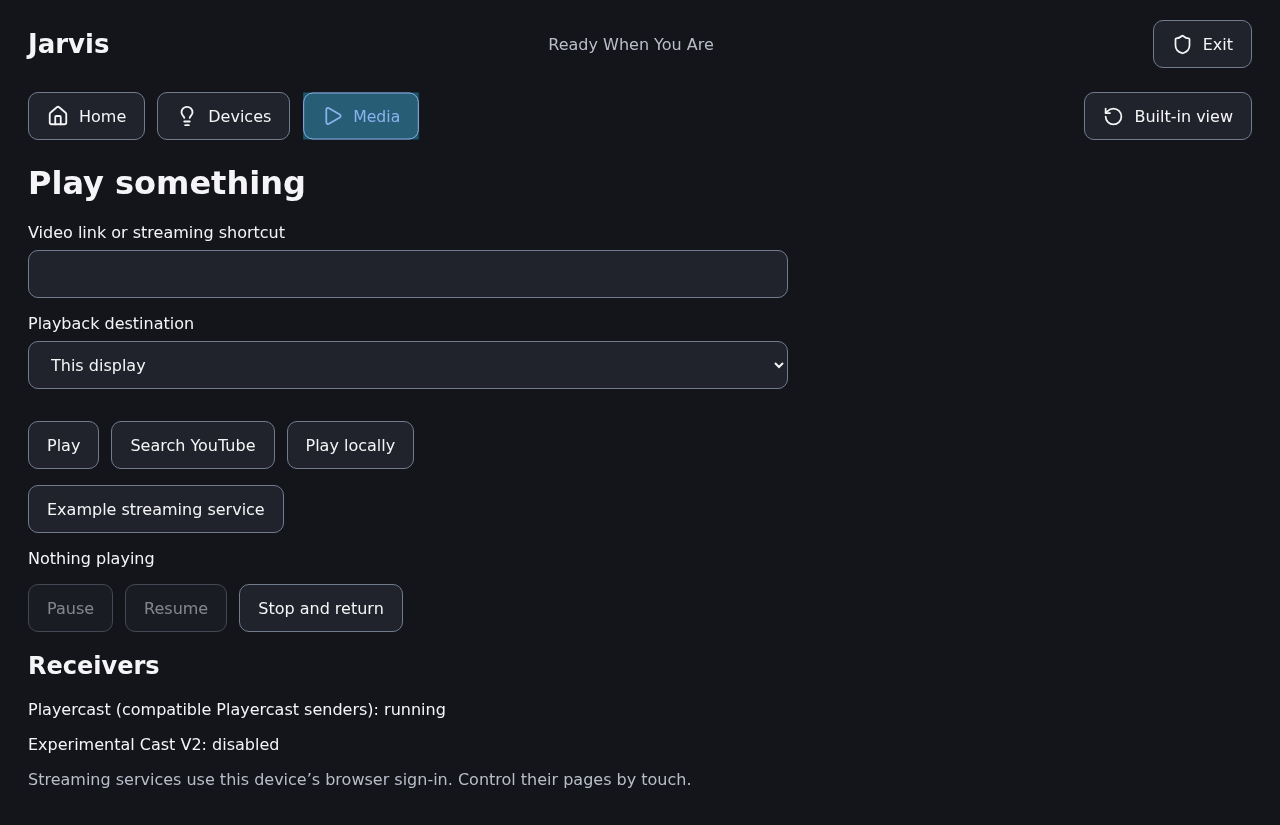
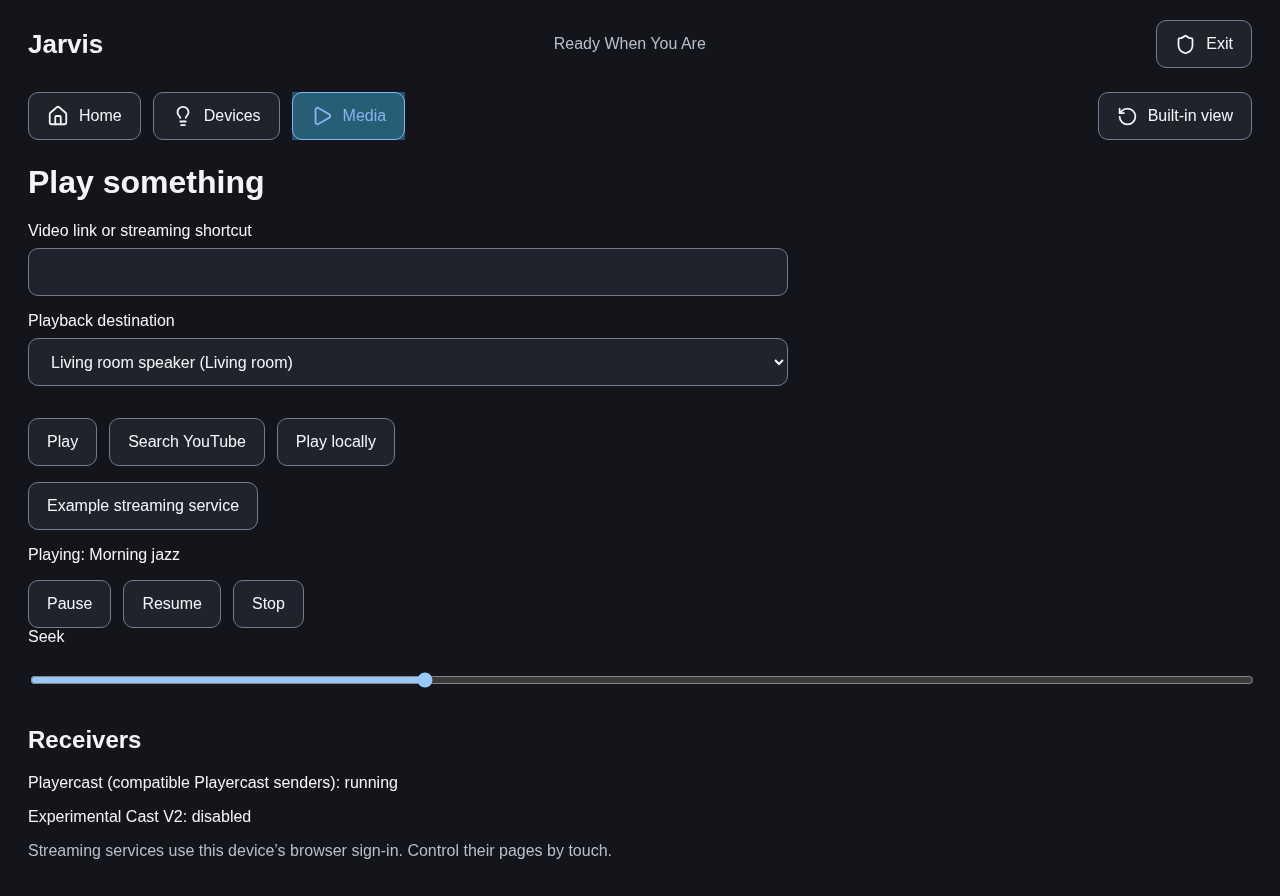
display: screenshots and a browser check of a household through the SDK catalogue
The browser check now also renders a small household with the real
device_types.json: the hidden to-do list stays out, the speakers are the
only media destinations, and a remote destination's playback shows on
Media. Home, Devices and Media screenshots are retaken from it.

diff --git a/docs/agent/touch-display.md b/docs/agent/touch-display.md
@@ -156,6 +156,9 @@ selected by `JARVIS_SIDECAR_PYTHON`. Run `npm test` and `npm run build` in `web/
 After installing `e2e/web` dependencies, `node scripts/display-browser-check.mjs /path/to/results`
 checks touch navigation, access confirmation, a 1,000-device catalogue, visible target sizes and
 horizontal overflow in landscape, portrait and phone viewports. It writes screenshots and JSON.
+It then renders a small household through the real SDK catalogue (`internal/devicetypes/device_types.json`):
+the hidden to-do list stays out, the two speakers are the only media destinations, and a remote destination's
+playback shows on Media.
 Hardware, receiver sender compatibility and subscription sign-in require their own recorded results;
 passing these checks alone does not establish compatibility with a phone application or website.
 
@@ -166,7 +169,8 @@ continuing. This hardware acceptance does not establish subscription or stock Ca
 
 ## Screenshots
 
-Captured from the rendered touch shell and admin pages, and from the Surface itself. Files are in
+Captured from the rendered touch shell and admin pages, and from the Surface itself. Home, Devices and Media come from the
+browser check's household scenario, after the move onto the device managers and the catalogue. Files are in
 [touch-display-screenshots](touch-display-screenshots/).
 
 | Speech                                              | Home                                          | Devices                                           |
